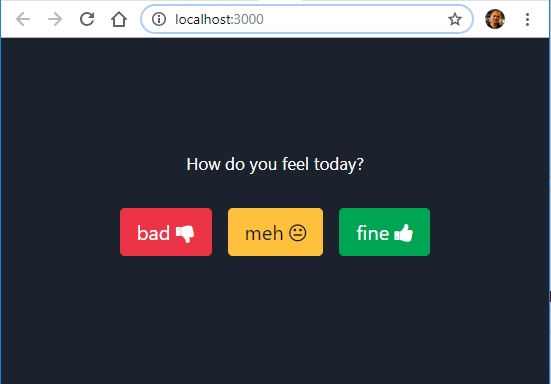
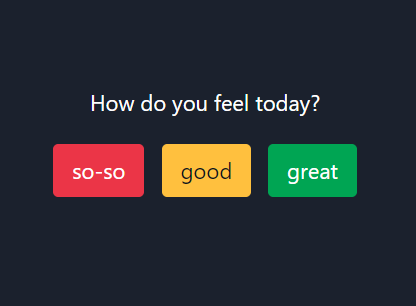
added chartjs

Changed region(s): [[0.125, 0.4118, 0.875, 0.6765], [0.0, 0.0, 1.0, 1.0], [0.2188, 0.2941, 0.7812, 0.3824]]

diff --git a/src/App.js b/src/App.js
@@ -1,22 +1,50 @@
 import React, { Component } from 'react'
 import './App.css'
+import { Doughnut } from 'react-chartjs-2'
+
+const labels = ['so-so', 'good', 'great']
+const buttons = ['btn-danger', 'btn-warning', 'btn-success']
+const colors = ['#EB3547', '#FFC03E', '#00A553']
+
+const Options = ({ onSelect }) => (
+  <div>
+    {buttons.map((btn, i) => (
+      <button
+        key={labels[i]}
+        className={`btn ${btn} btn-lg m-2`}
+        onClick={() => onSelect(i)}
+      >
+        {labels[i]}
+      </button>
+    ))}
+  </div>
+)
+
+const Report = ({ answers }) => (
+  <Doughnut
+    height={120}
+    options={{ maintainAspectRatio: false, legend: false, rotation: 1.57 }}
+    data={{ labels, datasets: [{ data: answers, backgroundColor: colors }] }}
+  />
+)
 
 class App extends Component {
+  state = {
+    answers: [0, 0, 0],
+  }
+  handleSelect = choice => {
+    const answers = [...this.state.answers]
+    answers[choice]++
+    this.setState({ answers })
+  }
   render() {
     return (
       <div className="App">
         <header className="App-header">
           <p>How do you feel today?</p>
-          <div>
-            <button className="btn btn-danger btn-lg">
-              bad <i className="fa fa-thumbs-down" />
-            </button>
-            <button className="btn btn-warning btn-lg m-3">
-              meh <i className="fa fa-meh-o" />
-            </button>
-            <button className="btn btn-success btn-lg">
-              fine <i className="fa fa-thumbs-up" />
-            </button>
+          <Options onSelect={this.handleSelect} />
+          <div className="fixed-bottom pb-2">
+            <Report answers={this.state.answers} />
           </div>
         </header>
       </div>

diff --git a/public/index.html b/public/index.html
@@ -7,10 +7,6 @@
       rel="stylesheet"
       href="https://stackpath.bootstrapcdn.com/bootstrap/4.3.0/css/bootstrap.min.css"
     />
-    <link
-      rel="stylesheet"
-      href="https://stackpath.bootstrapcdn.com/font-awesome/4.7.0/css/font-awesome.min.css"
-    />
     <meta
       name="viewport"
       content="width=device-width, initial-scale=1, shrink-to-fit=no"

diff --git a/PITCHME.md b/PITCHME.md
@@ -28,50 +28,89 @@ npm start
 
 ---
 
-## Add Bootstrap CSS framework and Font Awesome icons
+## Add libraries
 
-Reference Bootstrap and Font Awesome stylesheets in `public/index.html` head
+Reference Bootstrap CSS framework in the `head` tag of `public/index.html`
 
 ```html
 <link
   rel="stylesheet"
   href="https://stackpath.bootstrapcdn.com/bootstrap/4.3.0/css/bootstrap.min.css"
 />
-<link
-  rel="stylesheet"
-  href="https://stackpath.bootstrapcdn.com/font-awesome/4.7.0/css/font-awesome.min.css"
-/>
 ```
 
-## Add mood-o-meter buttons
+Install Chart.js charting package
 
-Replace `App` class with the following
+```sh
+npm i react-chartjs-2 chart.js
+```
+
+---
+
+## Build the UI
+
+Replace `src/App.js` with the following
 
 ```js
+import React, { Component } from 'react'
+import './App.css'
+import { Doughnut } from 'react-chartjs-2'
+
+const labels = ['so-so', 'good', 'great']
+const buttons = ['btn-danger', 'btn-warning', 'btn-success']
+const colors = ['#EB3547', '#FFC03E', '#00A553']
+
+const Options = ({ onSelect }) => (
+  <div>
+    {buttons.map((btn, i) => (
+      <button
+        key={labels[i]}
+        className={`btn ${btn} btn-lg m-2`}
+        onClick={() => onSelect(i)}
+      >
+        {labels[i]}
+      </button>
+    ))}
+  </div>
+)
+
+const Report = ({ answers }) => (
+  <Doughnut
+    height={120}
+    options={{ maintainAspectRatio: false, legend: false, rotation: 1.57 }}
+    data={{ labels, datasets: [{ data: answers, backgroundColor: colors }] }}
+  />
+)
+
 class App extends Component {
+  state = {
+    answers: [0, 0, 0],
+  }
+  handleSelect = choice => {
+    const answers = [...this.state.answers]
+    answers[choice]++
+    this.setState({ answers })
+  }
   render() {
     return (
       <div className="App">
         <header className="App-header">
           <p>How do you feel today?</p>
-          <div>
-            <button className="btn btn-danger btn-lg">
-              bad <i className="fa fa-thumbs-down" />
-            </button>
-            <button className="btn btn-warning btn-lg m-3">
-              meh <i className="fa fa-meh-o" />
-            </button>
-            <button className="btn btn-success btn-lg">
-              fine <i className="fa fa-thumbs-up" />
-            </button>
+          <Options onSelect={this.handleSelect} />
+          <div className="fixed-bottom">
+            <Report answers={this.state.answers} />
           </div>
         </header>
       </div>
     )
   }
 }
+
+export default App
 ```
 
 ## Check the new UI at http://localhost:3000/
 
 ![UI](./pitchme-images/ui-1.png)
+
+## Add serverless API
